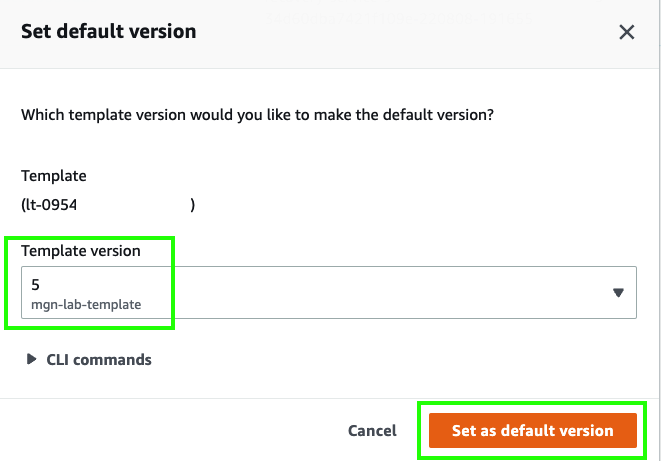
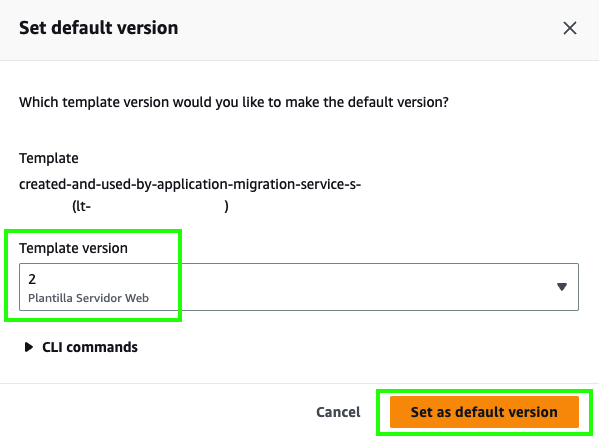
update

diff --git a/content/10_mgn/50_Ajustes.md b/content/10_mgn/50_Ajustes.md
@@ -1,0 +1,55 @@
+---
+draft: false
+title: 5. Ajustes
+weight: 50
+---
+1. En la consola de AWS MGN, haga clic en **Source servers** en el menú lateral izquierdo.
+2. Haga clic en el nombre del servidor que va a migrar bajo la columna de **Source server name**.
+3. Haga clic en **Launch settings**.
+
+![Instance type](/static/images/mgn/launchsettings2.png)
+
+4. Anote el template ID que se encuentra en el apartado de **EC2 Launch Template** y haga clic en **Modify**.
+
+![Modify EC2 Launch Template](/static/images/mgn/modifyec2launchtemplate.png)
+
+5. Haga clic de nuevo en **Modify**.
+
+::alert[Lo anterior lo llevará a modificar la plantilla de lanzamiento específica para este servidor, y creará una nueva versión con los parámetros necesarios para hacer las pruebas de lanzamiento de su servidor.]{type="info"}
+
+6. Ingrese :code[Plantilla Servidor Web]{showCopyAction=true} en el campo de **Template version description**.
+
+![Instance type](/static/images/mgn/plantillaservidorweb.png)
+
+10. Bajo el apartado de **Instance type** seleccione **t2.micro** del menú desplegable.
+
+![Instance type](/static/images/mgn/instancetype.png)
+
+11. En el apartado de **Network settings** haga clic en **Advanced network configuration**.
+12. seleccione **Enable** en el menú desplegable de **Auto-assign public IP**.
+
+![Red](/static/images/mgn/networksettings.png)
+
+13. Bajo el apartado de **Resource tags** ingrese :code[Servidor Web MIGRADO]{showCopyAction=true} en el campo **Value** de la llave **Name**.
+
+![Etiquetas](/static/images/mgn/nametag.png)
+
+14. Haga clic en **Create template version**.
+15. Haga clic en **View launch templates**.
+16. Seleccione su plantilla (**Launch template ID**).
+17. Haga clic en **Actions** y posteriormente en **Set default version**.
+
+![Set default version](/static/images/mgn/setdefaultversion.png)
+
+18. Bajo el menú desplegable de **Template version** seleccione la versión que creó previamente (**Plantilla Servidor Web**)
+19. Haga clic en **Set as default version**.
+
+![Set default version](/static/images/mgn/setdefaultversion2.png)
+
+20. Regrese al servicio de AWS MGN y verifique que los cambios efectuados en la plantilla se ven reflejados en ela sección de **Launch settings**.
+
+![EC2 Launch Template](/static/images/mgn/ec2launchtemplatemodified.png)
+
+21. Proceda al siguiente módulo.
+
+::alert[Para más información acerca de la configuración del lanzamiento, puede consultar la documentación disponible: [Launch settings](https://docs.aws.amazon.com/mgn/latest/ug/launch-settings.html)]{type="info"}

diff --git a/content/10_mgn/30_plantillalanzamiento.md b/content/10_mgn/30_plantillalanzamiento.md
@@ -1,23 +1,26 @@
 ---
 draft: false
-title: 5. Plantilla de lanzamiento
-weight: 50
+title: 3. Plantilla de lanzamiento
+weight: 30
 ---
-Con las **Plantillas de lanzamiento** del servicio de Amazon EC2 se definen los parámetros necesarios para el lanzamiento del servidor tales como la subred, direcciones IP, roles IAM, grupos de seguridad y tipo de volumen EBS, entre otros.En este módulo usted configurará la plantailla de lanzamiento para ejecutar esta migración satisfactoriamente.
-
-1. En la consola de AWS MGN, haga clic en el servidor que está migrando para entrar a ver los detalles.
-2. Haga clic en **Launch settings**.
-3. Haga clic en **Edit** en el apartado de **General launch settings**.
-4. Seleccione los siguientes valores:
-
-* **Instance type right sizing** = Off
-* **Start instance upon launch** = Yes
-* **Copy private IP** = No
-* **Transfer server tags** = No
+1. En la consola de AWS MGN, haga clic en **Launch template** bajo **Settings** en el menú lateral izquierdo.
 
 ![Launch settings](/static/images/mgn/launchsettings.png)
 
-5. Haga clic en **Save settings**.
+2. Haga clic en **Edit**.
+3. Bajo el apartado de **General launch settings**, desactive la funcionalidad de **Activate instance type right-sizing** .
+
+![General launch settings](/static/images/mgn/generallaunchsettings.png)
+
+4. Bajo el apartado de **Default EC2 Launch Template**, efectúe los siguientes cambios:
+
+* Default target subnet =  **Target Subnet**
+* Additional security groups = **MGN Lab SG**
+* EBS volume type =  **General Purpose SSD (gp3)**
+
+![Default EC2 Launch Template](/static/images/mgn/defaultec2launchtemplate.png)
+
+5. Haga clic en **Save template**.
 
 6. En el apartado de **EC2 Launch Template**, guarde el **Template ID** en un archivo de texto ya que lo utilizará más tarde.
 7. Haga clic en **Modify**.

diff --git a/content/10_mgn/40_agente.md b/content/10_mgn/40_agente.md
@@ -1,7 +1,7 @@
 ---
 draft: false
-title: 3. Instalación del Agente de Replicación
-weight: 30
+title: 4. Instalación del Agente de Replicación
+weight: 40
 ---
 AWS Application Migration Service es una solución de migración a la nube basada en un **Agente de Replicación** que le permite migrar cargas de trabajo que se ejecuten en versiones soportadas de sistemas operativos Windows y Linux. A continuación, instalará el Agente de Replicación de AWS MGN en la instancia que migrará.
 
